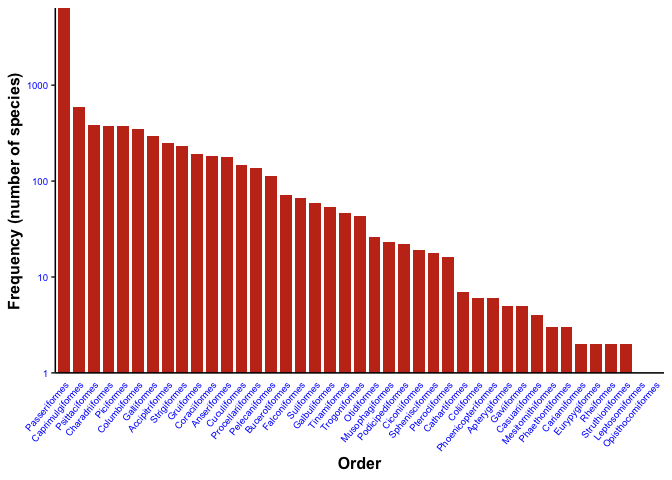
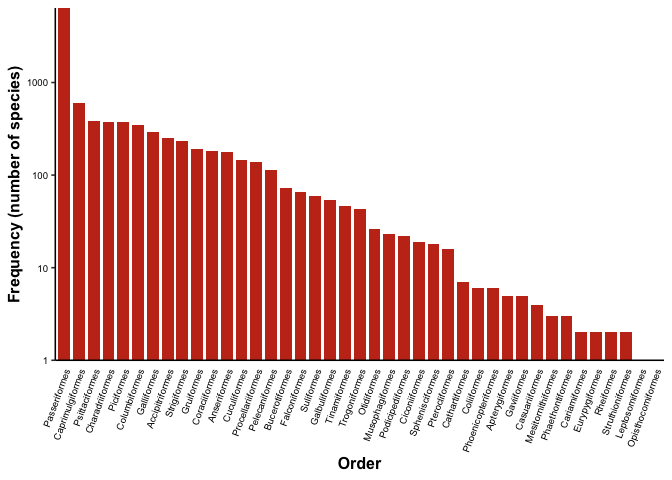
last push

diff --git a/lab-report.md b/lab-report.md
@@ -4,9 +4,9 @@ Jonathan Kanyinda
 2021-02-02
 
 Instructions for this lab report can be found on [Your assignment
-section of Lab Assignment 3 Introduction to
+section of Lab Assignment 3 introduction to
 ggplot2](https://biol275-msum.github.io/introduction-to-ggplot2.html#your-assignment)
-on the lab website.
+on the lab web site.
 
 ## Fireflies
 
@@ -147,8 +147,8 @@ ggplot(data = birds) +
   theme_classic(base_size = 12) +
   theme(
     axis.title = element_text(face = "bold"),
-    axis.text = element_text(color = "blue", size = rel(.6)),
-    axis.text.x = element_text(angle = 50 , hjust = 1),
+    axis.text = element_text(color = "black", size = rel(.6)),
+    axis.text.x = element_text(angle = 70 , hjust = 1),
     axis.ticks.x = element_blank()
   ) + 
   scale_y_log10(expand = expansion(mult = 0))
@@ -170,7 +170,11 @@ categorical variable is best visualized using a bar graph.
 I reviewed Nathan Snell’s lab report at this URL:
 <https://github.com/BIOL275-MSUM/lab-3-intro-to-ggplot-NathanSnell1/issues/1>
 
-Haider Ali reviewed my lab report at this URL: \_\_\_
+I reviewed Tyler Edvall’s lab report at this URL:
+<https://github.com/BIOL275-MSUM/lab-3-intro-to-ggplot-tdedvall/issues/3>
+
+Haider Ali reviewed my lab report at this URL:
+<https://github.com/BIOL275-MSUM/lab-3-intro-to-ggplot-Jonathan-kanyinda/issues/1>
 
 ## Session Info
 
